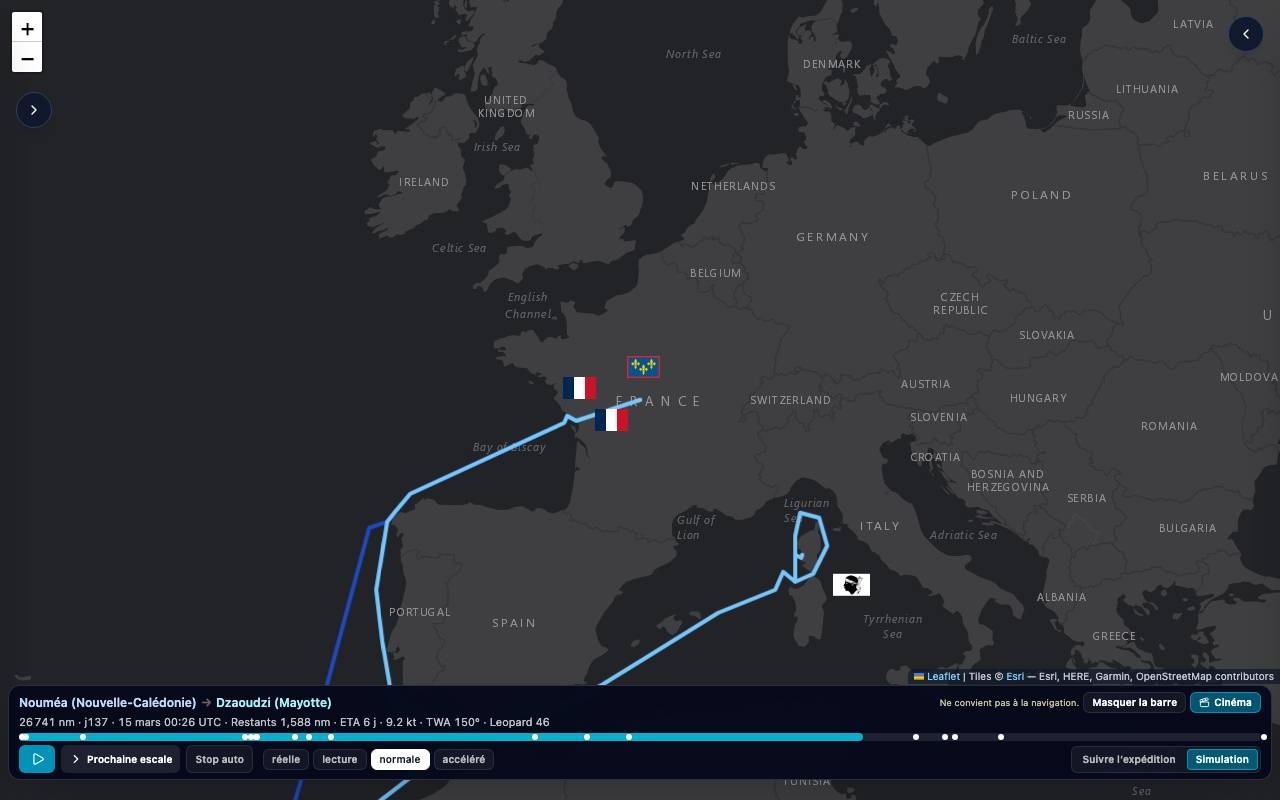
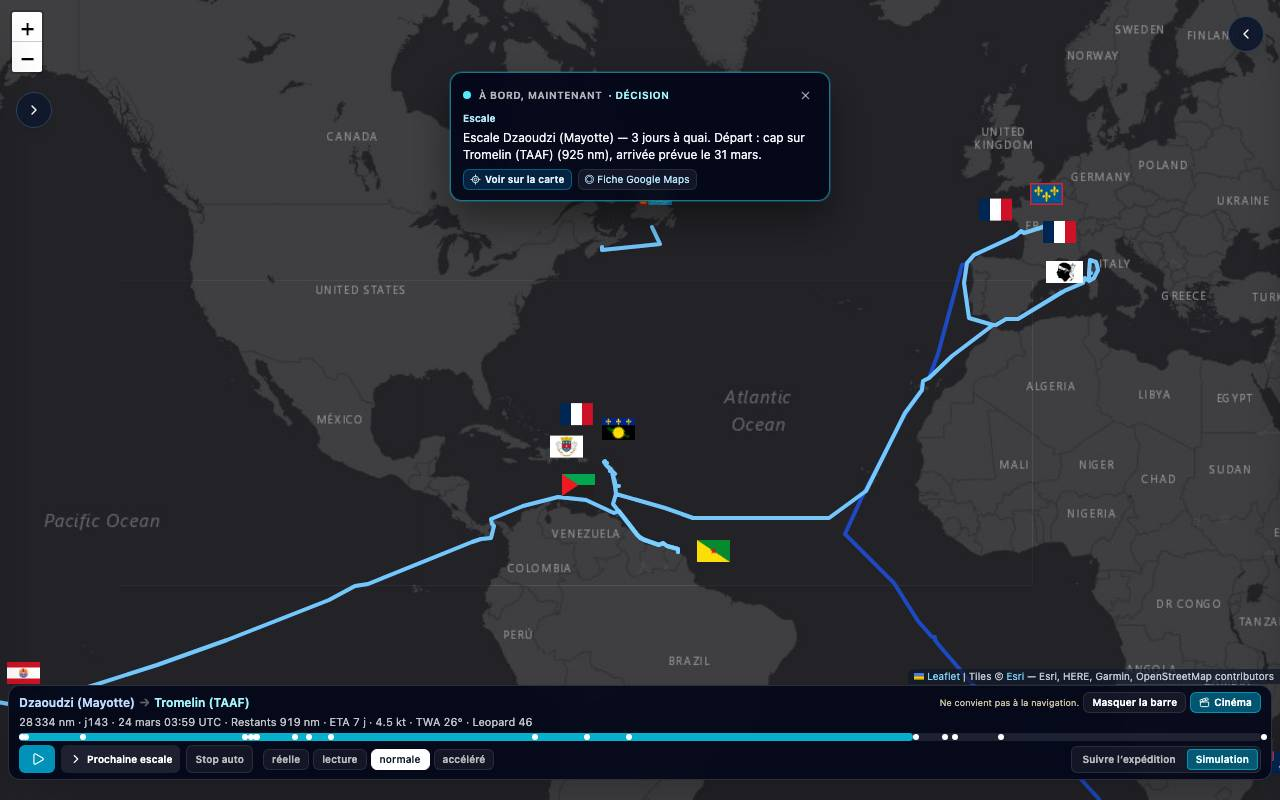
fix(simulator): a quai sur une escale meme sans dwell (CI P2)
Le spec CI n etait pas a quai en Suivre (horloge client sans API) et
Prochaine escale saute le holding. Un playhead pose sur une escale
a hold affiche maintenant a quai ; le spec vise Ajaccio apres la prime.

diff --git a/naviguide-simulator/e2e/lots/p2-quai.spec.js b/naviguide-simulator/e2e/lots/p2-quai.spec.js
@@ -30,6 +30,15 @@ async function seekFilm(page, ratio) {
   await bar.click({ position: { x: Math.max(4, box.width * ratio), y: box.height / 2 } });
 }
 
+async function enterSimulation(page) {
+  await page.getByTestId("view-simulation").click();
+  await expect(page.getByTestId("view-simulation")).toHaveAttribute("aria-checked", "true");
+  await expect(page.getByRole("button", { name: /prochaine escale/i })).toBeVisible({ timeout: 15_000 });
+  // L’effet de prime Simulation fait un seek(0) une fois : on attend qu’il soit passé
+  // avant de viser une escale (sinon le seek(0) écrase le clic).
+  await page.waitForTimeout(800);
+}
+
 test("lot P2 — à quai 0 kn ; en mer la vitesse varie", async ({ page }) => {
   await page.goto("/");
   await dismissNotForNav(page);
@@ -39,30 +48,19 @@ test("lot P2 — à quai 0 kn ; en mer la vitesse varie", async ({ page }) => {
 
   const clock = page.getByTestId("clock-line");
   await expect(clock).toBeVisible({ timeout: 15_000 });
-  let line = await clock.innerText();
-  if (!/à quai/i.test(line)) {
-    // Le 20 sept. au soir le live peut déjà avoir quitté Nouméa :
-    // on se place à une escale en Simulation (holding → atQuay).
-    await page.getByTestId("view-simulation").click();
-    await expect(page.getByTestId("view-simulation")).toHaveAttribute("aria-checked", "true");
-    const next = page.getByRole("button", { name: /prochaine escale/i });
-    await expect(next).toBeVisible({ timeout: 15_000 });
-    for (let i = 0; i < 4 && !/à quai/i.test(line); i++) {
-      await next.click();
-      await page.waitForTimeout(800);
-      line = await clock.innerText();
-    }
-  }
-  await expect(clock).toContainText("à quai", { timeout: 10_000 });
+  // CI sans API : l’horloge live n’est pas forcément à quai. On pose le
+  // playhead sur Ajaccio (3 j de hold) après le seek(0) de prime Simulation.
+  await enterSimulation(page);
+  const ajaccio = page.getByRole("button", { name: /Ajaccio/i }).first();
+  await ajaccio.scrollIntoViewIfNeeded();
+  await ajaccio.click();
+  await expect(clock).toContainText("à quai", { timeout: 15_000 });
   await expect(clock).not.toContainText(/\d+[.,]\d+\s*kt/);
   await shot(page, "01-quai");
-
-  await page.getByTestId("view-simulation").click();
-  await expect(page.getByTestId("view-simulation")).toHaveAttribute("aria-checked", "true");
   const seen = new Set();
-  for (const ratio of [0.18, 0.42, 0.68]) {
+  for (const ratio of [0.22, 0.38, 0.55, 0.72]) {
     await seekFilm(page, ratio);
-    await page.waitForTimeout(700);
+    await page.waitForTimeout(600);
     const kn = knotsIn(await clock.innerText());
     if (kn != null) seen.add(kn);
   }

diff --git a/naviguide-simulator/src/App.jsx b/naviguide-simulator/src/App.jsx
@@ -329,7 +329,15 @@ export default function App() {
   });
   const clockSample = useMemo(() => {
     if (isSuivre && live && !previewing) return live;
-    return lookupVoyageClock(officialClock, playback.nm, { atQuay: playback.holding });
+    // Next / seek saute le dwell : un playhead posé sur une escale à hold
+    // est quand même à quai (lot P2 — sinon la barre garde les kn de jambe).
+    const x = Number(playback.nm) || 0;
+    const onHold = (officialClock?.marks || []).some((m) => (
+      (m.holdHours || 0) > 0 && Math.abs((m.filmNm ?? m.nm) - x) <= 0.45
+    ));
+    return lookupVoyageClock(officialClock, playback.nm, {
+      atQuay: Boolean(playback.holding || onHold),
+    });
   }, [isSuivre, live, previewing, officialClock, playback.nm, playback.holding]);
   const windProfile = useRouteWindProfile({
     flat: flatRoute,
